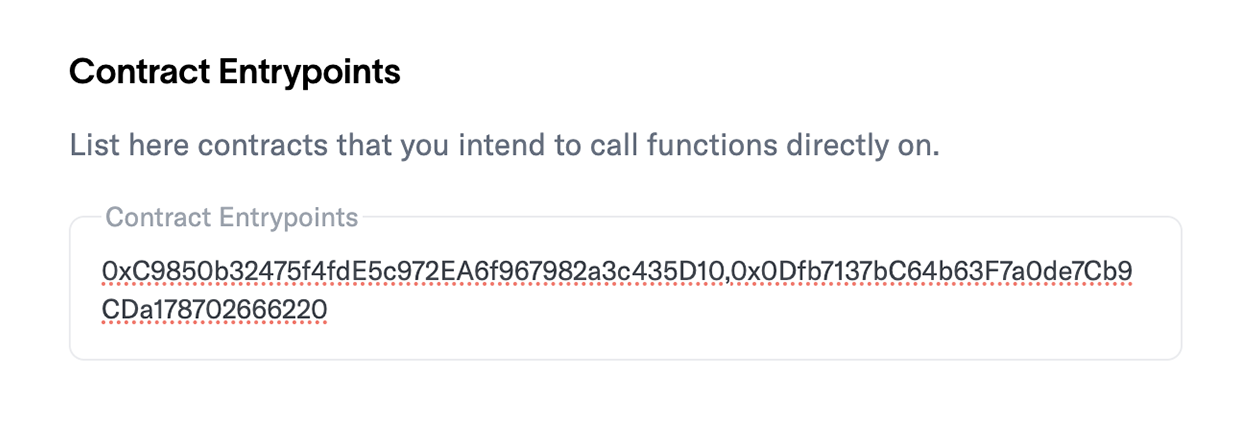
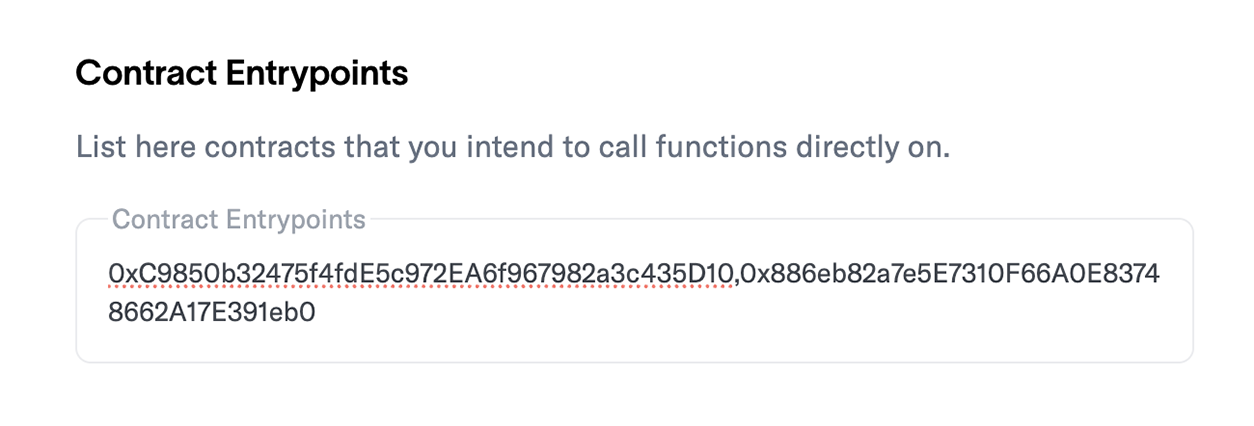
new contract entrypoints worldchain

diff --git a/docs/payments/integrate/mini-app-world-app.md b/docs/payments/integrate/mini-app-world-app.md
@@ -34,10 +34,9 @@ Here’s how to do it:
 
 `0x79A02482A880bCE3F13e09Da970dC34db4CD24d1,0x2cFc85d8E48F8EAB294be644d9E25C3030863003` would allow `USDCe` and `WDL`.
 
-5. Add `0xC9850b32475f4fdE5c972EA6f967982a3c435D10,0x0Dfb7137bC64b63F7a0de7Cb9CDa178702666220` under "Contract Entrypoints".
+5. Add `0xC9850b32475f4fdE5c972EA6f967982a3c435D10,0x886eb82a7e5E7310F66A0E83748662A17E391eb0` under "Contract Entrypoints".
 
 ![DePay contract entrypoint](/img/examples/mini-app/contract-entrypoint.png)
-
 
 
 ### Integrate DePay
